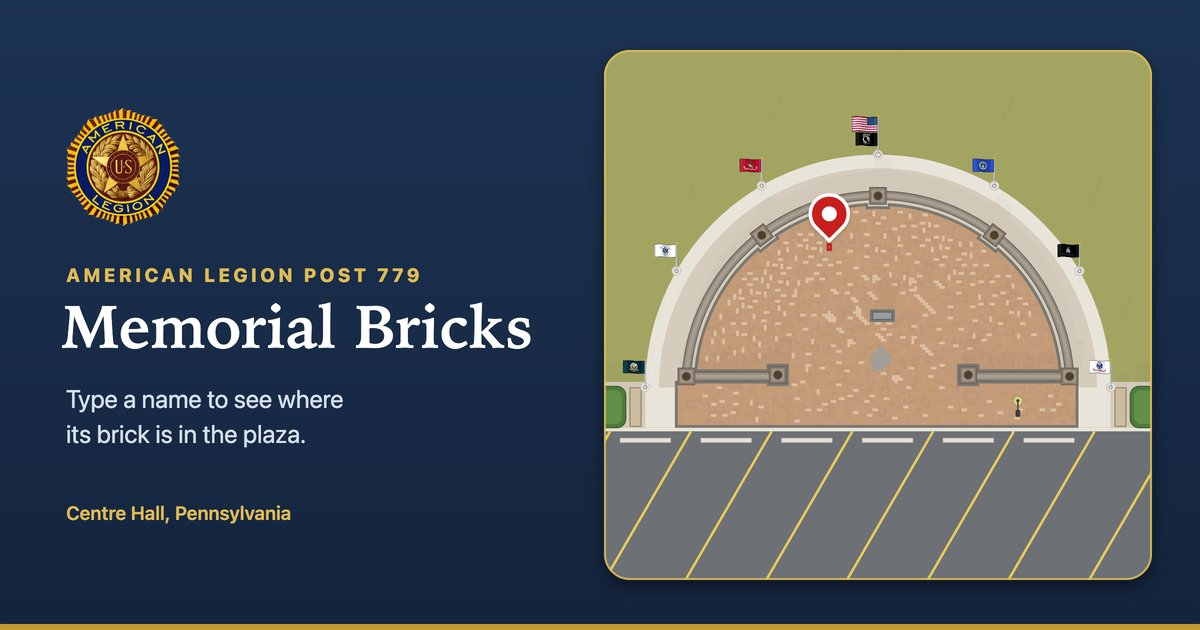
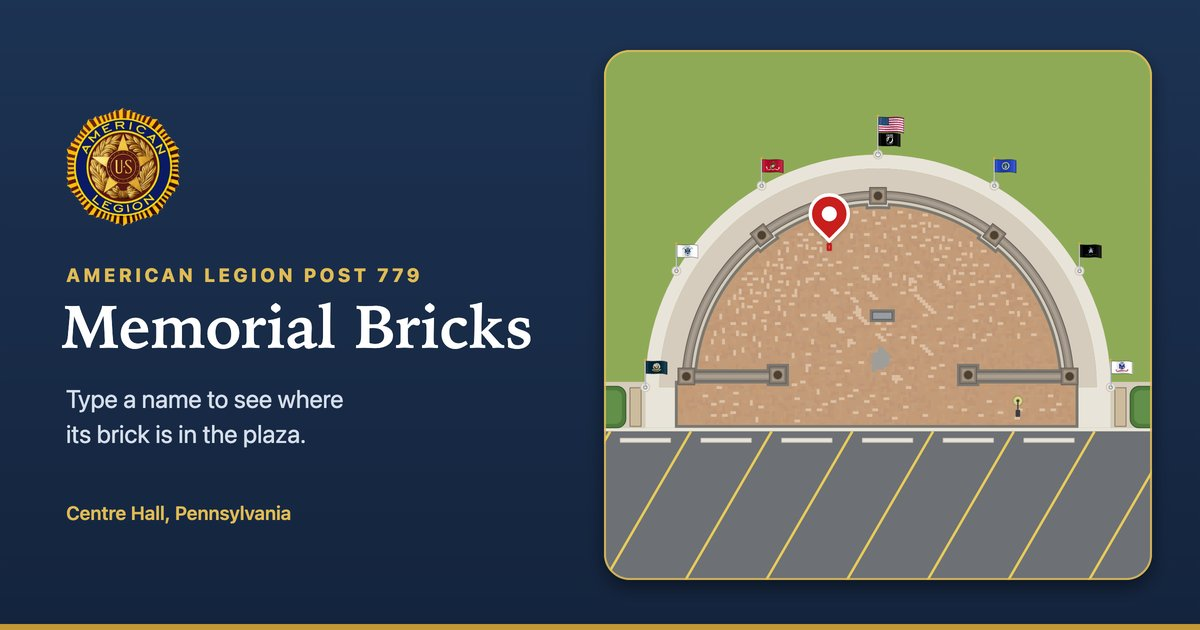
Shadows as strong as the aerial photo's, smoother flags, wreath on the stone
Shadows sweep each raised shape along the sun (no more stair steps), flags
cast their own shadow, flags seen edge-on narrow, and each flag's ripple is
one smooth sheet. The monument's wreath sits on the stone. Brighter
fireworks. Locally, ?weather=cloudy and ?wind=FROM,KMH show other weather.

diff --git a/js/map.js b/js/map.js
@@ -221,18 +221,21 @@ const MapView = (() => {
       for (let i = 0; i < n; i++) {
         const t0 = i / n,
           t1 = (i + 1) / n,
-          dy = wave((t0 + t1) / 2),
           shade = 0.13 * Math.cos(((t0 + t1) / 2) * 5.5 + 0.6);
-        ctx.drawImage(sheet.img, sx + t0 * sw, sy, sw / n, sheet.h, t0 * w, dy, w / n + 0.6, h);
+        const y0 = wave(t0),
+          slope = (wave(t1) - y0) / (w / n);
+        ctx.save();
+        ctx.transform(1, slope, 0, 1, t0 * w, y0);
+        ctx.drawImage(sheet.img, sx + t0 * sw, sy, sw / n, sheet.h, 0, 0, w / n + 0.6, h);
         ctx.fillStyle = shade > 0 ? `rgba(255,255,255,${shade})` : `rgba(0,0,0,${-shade})`;
-        ctx.fillRect(t0 * w, dy, w / n + 0.6, h);
+        ctx.fillRect(0, 0, w / n + 0.6, h);
+        ctx.restore();
       }
     } else drawPlainFlag(ctx, kind, 0, 0, w, h);
     ctx.beginPath();
     ctx.moveTo(0, wave(0));
-    for (let i = 1; i <= n; i++) ctx.lineTo((i / n) * w, wave((i - 0.5) / n));
-    ctx.lineTo(w, wave(1 - 0.5 / n) + h);
-    for (let i = n - 1; i >= 0; i--) ctx.lineTo((i / n) * w, wave((i + 0.5) / n) + h);
+    for (let i = 1; i <= n; i++) ctx.lineTo((i / n) * w, wave(i / n));
+    for (let i = n; i >= 0; i--) ctx.lineTo((i / n) * w, wave(i / n) + h);
     ctx.closePath();
     ctx.strokeStyle = "rgba(0,0,0,.35)";
     ctx.lineWidth = Math.max(0.75, h * 0.03);
@@ -378,7 +381,8 @@ const MapView = (() => {
       R = Plan.R,
       { axis, arcY, straightWall: sw, entrance: en, monument: m } = S,
       w = Plan.walkway;
-    const out = {};
+    // Everything that stands up, as plain outlines with heights, for shadows.
+    const out = { raised: [] };
 
     // Brick field (clip region): the D, the entrance and the walkway.
     const field = new Path2D();
@@ -447,8 +451,28 @@ const MapView = (() => {
     polygon(out.wallTop, Plan.arcBand(OFF.wall + 0.9, OFF.gravel - 0.9, wallBack - 0.9));
     for (const [x0, x1] of straight) {
       out.wall.rect(x0, wallFace, x1 - x0, wallBack - wallFace);
+      out.raised.push({ h: HEIGHT.wall, pts: rectPts(x0, wallFace, x1, wallBack) });
       out.wallTop.rect(x0, wallFace + 0.9, x1 - x0, wallBack - wallFace - 1.8);
     }
+
+    const band0 = Plan.edgeAt(90, false) + Plan.OFF.wall,
+      band1 = Plan.edgeAt(90, false) + Plan.OFF.gravel,
+      a0 = (Math.asin((arcY - wallBack) / band1) * 180) / Math.PI;
+    for (let d = a0; d < 180 - a0; d += 3) {
+      const e = Math.min(180 - a0, d + 3),
+        pt = (deg, r) => [axis + r * Math.cos((deg * Math.PI) / 180), arcY - r * Math.sin((deg * Math.PI) / 180)];
+      out.raised.push({ h: HEIGHT.wall, pts: [pt(d, band0), pt(d, band1), pt(e, band1), pt(e, band0)] });
+    }
+    for (const p of Plan.pillars) {
+      const c = Math.cos(p.angle),
+        s = Math.sin(p.angle),
+        h = p.size / 2;
+      out.raised.push({
+        h: HEIGHT.pillar,
+        pts: [[-h, -h], [h, -h], [h, h], [-h, h]].map(([x, y]) => [p.x + x * c - y * s, p.y + x * s + y * c]),
+      });
+    }
+    out.raised.push({ h: HEIGHT.monument, pts: rectPts(m.left + 1, m.top + 1, m.right - 1, m.bottom - 1) });
 
     out.pillars = new Path2D();
     out.pillarCaps = new Path2D();
@@ -552,11 +576,13 @@ const MapView = (() => {
           x = dir < 0 ? near - length : near;
         scatter(dir < 0 ? x - gap : x + length, hedgeTop, gap, depth); // between two shrubs
         roundedRect(out.hedges, x, hedgeTop, length, depth, 3.2);
+        out.raised.push({ h: HEIGHT.hedge, pts: rectPts(x + 0.9, hedgeTop, x + length - 0.9, hedgeBottom) });
         roundedRect(out.hedgeTops, x + 1.4, hedgeTop + 1.4, length - 2.8, depth - 2.8, 2.4);
       }
       // The bench runs alongside the first shrub, as long as the shrubs are deep.
       const middle = edge + (dir * S.benchGap) / 2;
       out.benches.rect(middle - 2, hedgeTop + 0.5, 4, depth - 1);
+      out.raised.push({ h: HEIGHT.bench, pts: rectPts(middle - 2, hedgeTop + 0.5, middle + 2, hedgeTop + depth - 0.5) });
     }
 
     // The plaza itself, walls and walkway included: it stays lit at night.
@@ -606,33 +632,51 @@ const MapView = (() => {
   // Heights (brick units: 1 is 4 inches) of the things that cast shadows.
   const HEIGHT = { wall: 7.5, pillar: 11, monument: 13, hedge: 9, bench: 5, pole: 54, mainPole: 84 };
 
-  // Soft shadows for the sun where it is: each raised shape swept a little
-  // way from the sun, never longer than the thing is tall, so they stay quiet
-  // even when the sun is low. The flagpoles throw thin lines (at most two
-  // thirds their height), with a little patch where each flag is. Built again
-  // as the sun moves.
+  const rectPts = (x0, y0, x1, y1) => [
+    [x0, y0],
+    [x1, y0],
+    [x1, y1],
+    [x0, y1],
+  ];
+
+  // The smallest convex outline round some points.
+  function hull(pts) {
+    const p = [...pts].sort((a, b) => a[0] - b[0] || a[1] - b[1]),
+      cross = (o, a, b) => (a[0] - o[0]) * (b[1] - o[1]) - (a[1] - o[1]) * (b[0] - o[0]),
+      lower = [],
+      upper = [];
+    for (const q of p) {
+      while (lower.length >= 2 && cross(lower.at(-2), lower.at(-1), q) <= 0) lower.pop();
+      lower.push(q);
+    }
+    for (const q of p.reverse()) {
+      while (upper.length >= 2 && cross(upper.at(-2), upper.at(-1), q) <= 0) upper.pop();
+      upper.push(q);
+    }
+    return [...lower.slice(0, -1), ...upper.slice(0, -1)];
+  }
+
+  // Shadows for the sun where it is, as an aerial photo shows them: each
+  // raised outline swept away from the sun (at most 1.2 times its height, so
+  // a low sun doesn't throw them across the map), and each flagpole a thin
+  // line (at most three quarters of its height) with a patch where its flag
+  // flies. Built again as the sun moves.
   function buildShadows(S, sky) {
     const { altitude } = sky.sun;
-    if (sky.shadow <= 0.02 || altitude < 2 || typeof Path2D.prototype.addPath !== "function") return null;
+    if (sky.shadow <= 0.02 || altitude < 2) return null;
     const a = (sky.sunOnMap * Math.PI) / 180,
       cot = 1 / Math.tan((altitude * Math.PI) / 180),
       dir = [-Math.sin(a), Math.cos(a)],
-      v = dir.map((c) => c * Math.min(1, cot)), // shadow per unit of height
-      vp = dir.map((c) => c * Math.min(0.66, cot)), // the same for the poles
+      v = dir.map((c) => c * Math.min(1.2, cot)), // shadow per unit of height
+      vp = dir.map((c) => c * Math.min(0.75, cot)), // the same for the poles
       fill = new Path2D(),
       flags = new Path2D(),
       lines = new Path2D();
-    const sweep = (path, h) => {
-      const n = Math.min(12, Math.max(1, Math.ceil((Math.hypot(...v) * h) / 1.5)));
-      for (let i = 0; i <= n; i++) fill.addPath(path, new DOMMatrix([1, 0, 0, 1, (v[0] * h * i) / n, (v[1] * h * i) / n]));
-    };
-    sweep(S.wall, HEIGHT.wall);
-    sweep(S.pillars, HEIGHT.pillar);
-    sweep(S.monumentStone, HEIGHT.monument);
-    sweep(S.hedges, HEIGHT.hedge);
-    sweep(S.benches, HEIGHT.bench);
+    for (const { h, pts } of S.raised)
+      polygon(fill, hull([...pts, ...pts.map(([x, y]) => [x + v[0] * h, y + v[1] * h])]));
     const wind = [Math.sin((sky.windTo * Math.PI) / 180), -Math.cos((sky.windTo * Math.PI) / 180)],
-      fw = FLAG * FLAG_RATIO;
+      fh = FLAG * 0.9,
+      fw = fh * FLAG_RATIO;
     for (const f of Plan.flagpoles) {
       const h = f.main ? HEIGHT.mainPole : HEIGHT.pole,
         top = f.main && sky.halfStaff ? h * 0.6 : h,
@@ -640,8 +684,8 @@ const MapView = (() => {
       lines.moveTo(f.x, f.y);
       lines.lineTo(...at(h, 0));
       const flag = (z0, z1, len) => polygon(flags, [at(z1, 0), at(z1, len), at(z0, len), at(z0, 0)]);
-      flag(top - FLAG * 1.4, top, fw * 1.4);
-      if (f.main) flag(top - FLAG * 2.7, top - FLAG * 1.5, fw * 1.2);
+      flag(top - fh, top, fw);
+      if (f.main) flag(top - 2 * fh - 0.8, top - fh - 0.8, fw * 0.85);
     }
     return { fill, flags, lines };
   }
@@ -749,12 +793,12 @@ const MapView = (() => {
           const x = W * (0.15 + 0.7 * Math.random()),
             y = H * (0.1 + 0.3 * Math.random()),
             color = colors[Math.floor(Math.random() * colors.length)];
-          for (let i = 0; i < 34; i++) {
-            const a = (i / 34) * 2 * Math.PI,
-              v = 55 + Math.random() * 70;
+          for (let i = 0; i < 56; i++) {
+            const a = (i / 56) * 2 * Math.PI + Math.random() * 0.1,
+              v = 70 + Math.random() * 80;
             sparks.push({ x, y, vx: Math.cos(a) * v, vy: Math.sin(a) * v, life: 1, color });
           }
-          next = t + 900 + Math.random() * 1400;
+          next = t + 700 + Math.random() * 1100;
         }
         for (let i = sparks.length - 1; i >= 0; i--) {
           const p = sparks[i];
@@ -766,9 +810,13 @@ const MapView = (() => {
             sparks.splice(i, 1);
             continue;
           }
-          g.globalAlpha = p.life;
-          g.fillStyle = p.color;
-          g.fillRect(p.x - 1, p.y - 1, 2.2, 2.2);
+          g.globalAlpha = Math.min(1, p.life * 1.3);
+          g.strokeStyle = p.color;
+          g.lineWidth = 2;
+          g.beginPath();
+          g.moveTo(p.x - p.vx * 0.06, p.y - p.vy * 0.06);
+          g.lineTo(p.x, p.y);
+          g.stroke();
         }
         g.globalAlpha = 1;
         if (t > stopAt && !sparks.length) {
@@ -1290,13 +1338,13 @@ const MapView = (() => {
       // Shadows, while the sun's up, under everything that stands up.
       if (this.shadows === undefined) this.shadows = buildShadows(S, sky);
       if (this.shadows) {
-        const a = 0.15 * sky.shadow;
-        ctx.fillStyle = `rgba(24, 28, 40, ${a})`;
+        const a = 0.3 * sky.shadow;
+        ctx.fillStyle = `rgba(20, 24, 34, ${a})`;
         ctx.fill(this.shadows.fill);
-        ctx.fillStyle = `rgba(24, 28, 40, ${a * 0.7})`;
+        ctx.fillStyle = `rgba(20, 24, 34, ${a * 0.65})`;
         ctx.fill(this.shadows.flags);
-        ctx.strokeStyle = `rgba(24, 28, 40, ${a})`;
-        ctx.lineWidth = 0.35;
+        ctx.strokeStyle = `rgba(20, 24, 34, ${a})`;
+        ctx.lineWidth = 0.55;
         ctx.stroke(this.shadows.lines);
       }
 
@@ -1346,7 +1394,7 @@ const MapView = (() => {
       ctx.stroke(S.monumentStone);
       if (sky.monumentWreath) {
         const m = Plan.SHAPE.monument;
-        this.drawWreath((m.left + m.right) / 2, m.bottom + 1.7, 1.45);
+        this.drawWreath((m.left + m.right) / 2, m.bottom - 2.3, 0.85);
       }
 
       this.drawLight(vis);
@@ -1566,13 +1614,15 @@ const MapView = (() => {
       const fh = FLAG * scale, // in screen px
         sky = this.sky,
         across = Math.sin(((sky.windTo * Math.PI) / 180) + this.view.angle),
-        look = { dir: across < -0.1 ? -1 : 1, breeze: sky.breeze };
+        look = { dir: across < -0.1 ? -1 : 1, breeze: sky.breeze },
+        // Blowing up or down the screen, the flags are seen more edge-on.
+        span = 0.45 + 0.55 * Math.abs(across);
       for (const f of Plan.flagpoles) {
         const [x, y] = this.worldToScreen(f.x, f.y),
           height = f.main ? fh * 1.2 : fh,
           poleTop = y - height * (f.main ? 2.5 : 2.1),
           top = f.main && sky.halfStaff ? poleTop + (y - poleTop) * 0.3 : poleTop,
-          fw = height * FLAG_RATIO,
+          fw = height * FLAG_RATIO * span,
           redraw = () => this.draw();
         // A satin aluminum pole: a darker edge with a bright line down it.
         const pw = Math.max(1.4, 0.26 * scale);

diff --git a/js/sky.js b/js/sky.js
@@ -10,7 +10,7 @@
 const Sky = (() => {
   // The plaza, its time zone, and which way the map's top faces: 330°,
   // north-northwest (from the parking lot to the tall flagpole).
-  const LAT = 40.8361,
+  const LAT = 40.8357,
     LON = -77.6699,
     ZONE = "America/New_York",
     MAP_UP = 330;
@@ -143,11 +143,16 @@ const Sky = (() => {
   const TEST = {
     snow: { snow: true, wind: 8, windFrom: 300, cloud: 60 },
     clear: { snow: false, wind: 12, windFrom: 250, cloud: 0 },
+    cloudy: { snow: false, wind: 12, windFrom: 250, cloud: 100 },
     calm: { snow: false, wind: 1, windFrom: 0, cloud: 10 },
     windy: { snow: false, wind: 35, windFrom: 90, cloud: 30 },
   };
   function fetchWeather() {
-    const test = local && TEST[params.get("weather")];
+    // Locally, ?weather= picks one of the above, and ?wind=250,20 sets where
+    // it blows from (compass degrees) and how hard (km/h).
+    let test = local && TEST[params.get("weather")];
+    const wind = local && /^(\d+),(\d+)$/.exec(params.get("wind") || "");
+    if (wind) test = { ...(test || TEST.clear), windFrom: +wind[1], wind: +wind[2] };
     if (test) {
       weather = test;
       return Promise.resolve(weather);

diff --git a/index.html b/index.html
@@ -16,7 +16,7 @@
     <meta property="og:title" content="Memorial Bricks · American Legion Post 779" />
     <meta property="og:description" content="Type a name to see where its brick is in the memorial plaza." />
     <!-- Bump ?v= when the picture changes, so apps that cached the old one fetch it again. -->
-    <meta property="og:image" content="https://pjpuzzler.github.io/legion-bricks/img/share.jpg?v=9" />
+    <meta property="og:image" content="https://pjpuzzler.github.io/legion-bricks/img/share.jpg?v=10" />
     <meta property="og:image:width" content="1200" />
     <meta property="og:image:height" content="630" />
     <meta property="og:image:alt" content="A map of the memorial plaza with a red pin on one brick" />
